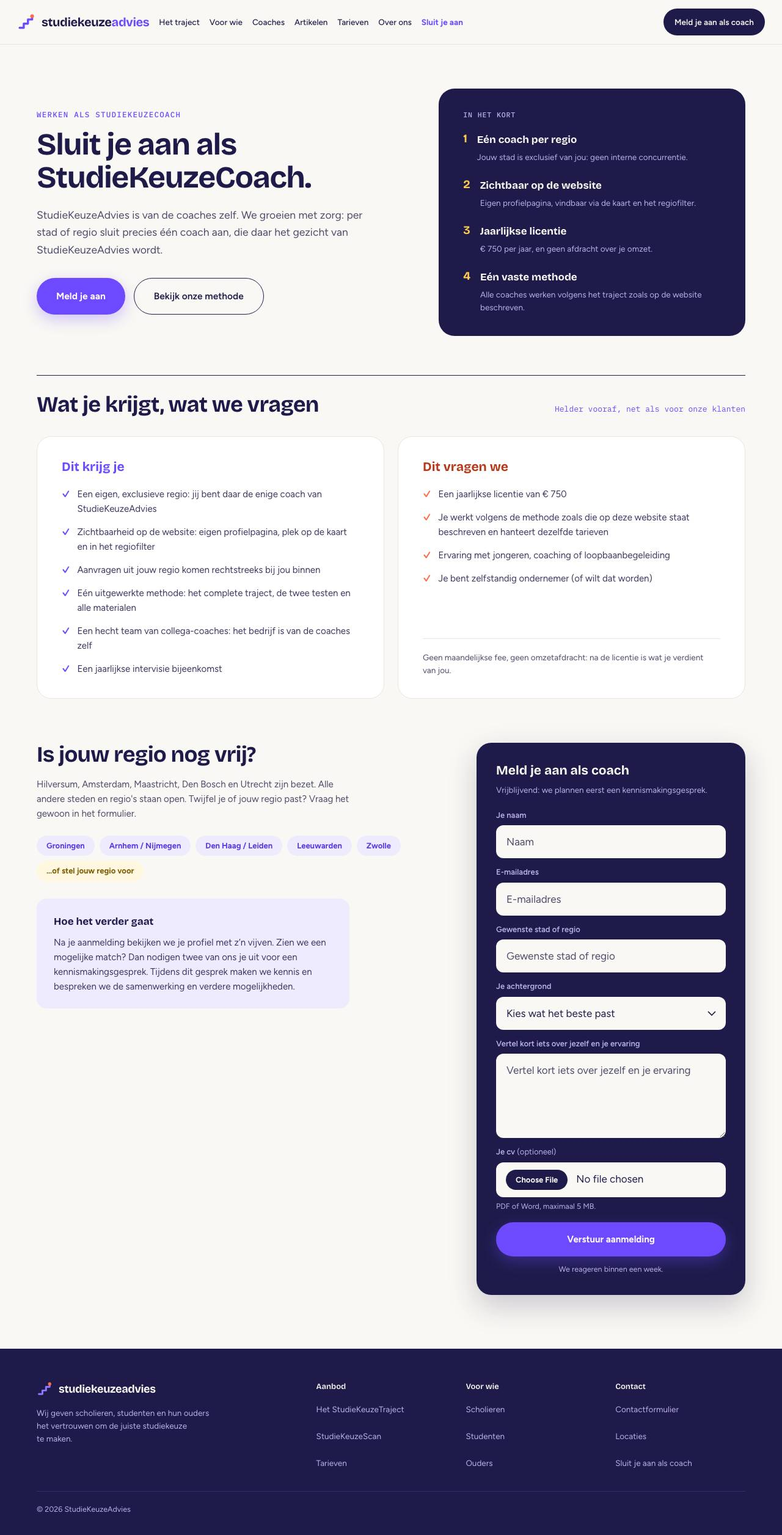
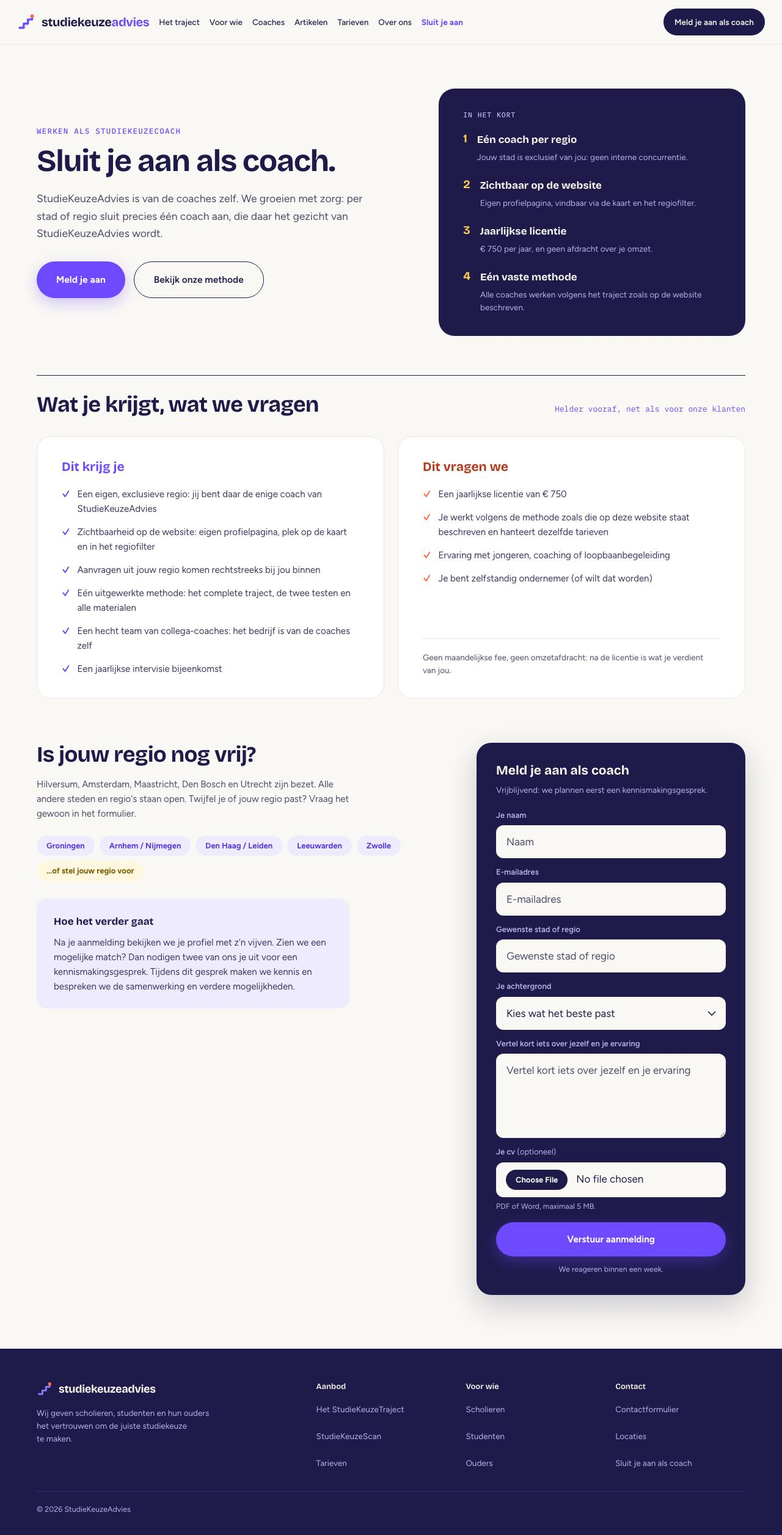
Do what two reviews of the client's mail found
Two reviewers read this branch: one held every row of the register against
the client's mail word for word, one read the code. Between them they found
nine things that were wrong and three that are worth an issue.

The client's own words, put back:

- The kop is "Sluit je aan als coach", not "als StudieKeuzeCoach". Row A1
  capitalises the brand; it does not put the brand where the client wrote the
  plain word. The eyebrow and the title tag keep the brand, for search.
- "Samen met de studiekeuzeadviseur" is the client's noun and the spelling
  sweep should never have touched it. It is not one of the three brand
  strings row A1 names.
- The contact page says "of mail naar info@studiekeuzeadvies.nl" inside the
  sentence the client wrote it in.
- The icon's `aria-label` and `<title>` said "StudiekeuzeAdvies". They are
  text, so the sweep should have caught them; "the wordmark is a drawing"
  covers the drawing and not its label.

Three old Sittard URLs parked at /locaties, waiting for a /locaties/sittard
that app/cities.ts will never hold: the town is Sittard-Geleen now. One row
in CITY_SPECIAL fixes all three, and they answer 308 to the real page.

The CV, on the paths nobody walks on a good day:

- a provider error empties the file input exactly as an invalid submission
  does, and only the invalid one said so. Now every state that comes back to
  the form says to pick the file again.
- a name longer than 120 characters lost its extension to the cut, and a
[…]

Changed region(s): [[0.0312, 0.0621, 0.4688, 0.2173]]

diff --git a/app/redirects.ts b/app/redirects.ts
@@ -157,8 +157,8 @@ export const legacyRedirects: LegacyRedirect[] = [
   { source: "/locaties/roosendaal/angelina-muller-1", destination: "/locaties", temporary: true }, // waits for /locaties/roosendaal
   { source: "/locaties/rotterdam", destination: "/locaties", temporary: true }, // waits for /locaties/rotterdam
   { source: "/locaties/singel-331-3311-hl-dordrecht", destination: "/locaties" },
-  { source: "/locaties/sittard", destination: "/locaties", temporary: true }, // waits for /locaties/sittard
-  { source: "/locaties/sittard/lisa-2", destination: "/locaties", temporary: true }, // waits for /locaties/sittard
+  { source: "/locaties/sittard", destination: "/locaties/sittard-geleen" },
+  { source: "/locaties/sittard/lisa-2", destination: "/locaties/sittard-geleen" },
   { source: "/locaties/student-getting-help-from-tutor-in-library", destination: "/locaties" },
   { source: "/locaties/studiekeuzeadvies-apeldoorn", destination: "/locaties", temporary: true }, // waits for /locaties/apeldoorn
   { source: "/locaties/utrecht/b-m", destination: "/locaties/utrecht" },
@@ -223,7 +223,7 @@ export const legacyRedirects: LegacyRedirect[] = [
   { source: "/product/studiekeuzeadvies-traject-mbo-zonder-gesprekken-opnieuw-kiezer", destination: "/tarieven" },
   { source: "/product/studiekeuzeadvies-traject-mbo-zonder-gesprekken", destination: "/tarieven" },
   { source: "/roosendaal", destination: "/locaties", temporary: true }, // waits for /locaties/roosendaal
-  { source: "/sittard", destination: "/locaties", temporary: true }, // waits for /locaties/sittard
+  { source: "/sittard", destination: "/locaties/sittard-geleen" },
   { source: "/spoedcursus-studeren-1-wat-je-moet-weten-voor-je-gaat-studeren", destination: "/artikelen", temporary: true }, // waits for /spoedcursus-studeren-1-wat-je-moet-weten-voor-je-gaat-studeren
   { source: "/spoedcursus-studeren-2-voorbereiden-op-je-studie", destination: "/artikelen", temporary: true }, // waits for /spoedcursus-studeren-2-voorbereiden-op-je-studie
   { source: "/spoedcursus-studeren-3-hoe-zit-een-studie-in-elkaar", destination: "/artikelen", temporary: true }, // waits for /spoedcursus-studeren-3-hoe-zit-een-studie-in-elkaar

diff --git a/app/traject.ts b/app/traject.ts
@@ -47,8 +47,8 @@ export type Meeting = {
  * `homeworkTitle` is new. Three meetings say "Daarna, thuis" and the third one
  * says "Daarna, thuis en erop uit", because that is the week the reader
  * actually leaves the house. The fourth says "Daarna, inschrijven!" and it is
- * the one card that has a line after it at all, so `homework` is no longer
- * null on the last meeting.
+ * the one card whose heading is the whole message: `homework` stays null there
+ * and the heading carries it alone.
  */
 export const meetings: Meeting[] = [
   {
@@ -102,7 +102,7 @@ export const tests = {
   heading: "Betrouwbare tests, gericht op betere keuzes",
   body: [
     "Een studie kiezen betekent je verdiepen in een wereld die vaak nog grotendeels onbekend is. Er zijn veel opleidingen, richtingen en mogelijkheden. Onze tests helpen om daarin structuur aan te brengen. Ze zijn ontwikkeld vanuit meer dan 30 jaar ervaring met assessments, studiekeuze, coaching en testontwikkeling en zijn gericht op het verkrijgen van betrouwbare inzichten in persoonlijkheid en interesses.",
-    "Zo wordt duidelijker waar je voorkeuren liggen, wat bij je past en welke richtingen het meest interessant zijn om verder te onderzoeken. De testuitslagen vormen daarbij het vertrekpunt. Samen met de StudieKeuzeCoach geef je betekenis aan de resultaten, leg je verbanden en vertaal je de inzichten naar concrete opleidingen en keuzes. Zo ontstaat stap voor stap overzicht in een zoektocht die aan het begin vaak nog heel breed en onbekend is.",
+    "Zo wordt duidelijker waar je voorkeuren liggen, wat bij je past en welke richtingen het meest interessant zijn om verder te onderzoeken. De testuitslagen vormen daarbij het vertrekpunt. Samen met de studiekeuzeadviseur geef je betekenis aan de resultaten, leg je verbanden en vertaal je de inzichten naar concrete opleidingen en keuzes. Zo ontstaat stap voor stap overzicht in een zoektocht die aan het begin vaak nog heel breed en onbekend is.",
   ],
   pills: [
     "Persoonlijkheidstest",

diff --git a/app/coach-worden/application-form.tsx b/app/coach-worden/application-form.tsx
@@ -81,13 +81,13 @@ export function CoachApplicationForm({ className = "" }: { className?: string })
   const undeliverable =
     state.status === "not-configured" || state.status === "provider-error";
 
+  // No encType here although this form carries a file. React sets it itself for
+  // a form whose action is a function, and it overrides and warns about one that
+  // is written down. See react-dom, "Cannot specify a encType or method ...".
   return (
     <form
       action={formAction}
       className={cardBase}
-      /* ROW W2. Without this a browser posts the name of the file and not the
-         file, and the CV would arrive as the word "cv.pdf". */
-      encType="multipart/form-data"
       noValidate
     >
       <h2 className="text-title font-display font-bold">Meld je aan als coach</h2>
@@ -304,9 +304,13 @@ export function CoachApplicationForm({ className = "" }: { className?: string })
           ) : (
             <p className="text-micro text-lavender-ink" id={`${id}-cv-hint`}>
               PDF of Word, maximaal {cvMaxLabel}.
-              {state.status === "invalid"
-                ? " Kies je bestand opnieuw: een browser mag het niet voor je onthouden."
-                : ""}
+              {/* Every state that lands here again empties the file input, not
+                  just an invalid one: a provider error returns the typed
+                  answers and no file either. "sent" never reaches this, it
+                  returns above. */}
+              {state.status === "idle"
+                ? ""
+                : " Kies je bestand opnieuw: een browser mag het niet voor je onthouden."}
             </p>
           )}
         </div>

diff --git a/app/actions.ts b/app/actions.ts
@@ -332,6 +332,25 @@ export async function requestIntake(
 }
 
 /**
+ * A file name a mail client can be handed.
+ *
+ * Three things happen to it. A line break or a slash goes, because either can
+ * make a mail header say something the sender did not write. The stem is cut to
+ * length, never the suffix: a .pdf that arrives called `cv` opens in nothing.
+ * And the cut counts characters the way a person reads them, so it cannot land
+ * in the middle of an emoji and leave half of one behind.
+ */
+function safeFilename(name: string): string {
+  const clean = oneLine(name).replace(/[/\\]/g, "-");
+  const dot = clean.lastIndexOf(".");
+  const stem = dot > 0 ? clean.slice(0, dot) : clean;
+  const suffix = dot > 0 ? clean.slice(dot) : "";
+  const room = Math.max(1, 120 - suffix.length);
+  const cut = [...stem].slice(0, room).join("");
+  return `${cut}${suffix}`;
+}
+
+/**
  * Read the CV off the application form.
  *
  * It answers with exactly one of two things: an attachment, or a sentence for
@@ -370,8 +389,10 @@ async function readCv(
       content: Buffer.from(await file.arrayBuffer()).toString("base64"),
       contentType: file.type || undefined,
       // The reader's own file name, minus anything that could confuse a mail
-      // client about what kind of file it is looking at.
-      filename: oneLine(file.name).replace(/[/\\]/g, "-").slice(0, 120),
+      // client about what kind of file it is looking at. The length cap takes
+      // it out of the stem and never out of the suffix: a .pdf that arrives
+      // called `cv` opens in nothing.
+      filename: safeFilename(file.name),
     },
   };
 }

diff --git a/app/components/intake-form.tsx b/app/components/intake-form.tsx
@@ -15,8 +15,11 @@ import {
  * with paper fields, one violet pill to submit, and a confirmation that
  * replaces the whole card.
  *
- * The form always knows where it sends to, because there is no central mailbox
- * to fall back on (issue #7).
+ * The form always knows where it sends to. It used to have to: issue #7 said
+ * there was no central mailbox to fall back on. The client's mail of 21 August
+ * brought one back, so `unassignedIntakeInbox` now answers for a city with no
+ * coach yet. A request that names nobody at all is still archived and not
+ * delivered, which is issue #17.
  *
  * `route` is the encoded destination of app/intake.ts and it travels in a
  * hidden field. `coachName` is the same destination in words, for the reader.
@@ -36,7 +39,7 @@ import {
  *  - "Waar loop je tegenaan?" is gone. It was the one open question on the
  *    card and the client asked for it to go. A reader now says what is going
  *    on in the intake conversation itself, which is what that conversation is
- *    for, and the form is four short rows instead of a small essay;
+ *    for, and the card asks short questions instead of a small essay;
  *  - "Hoe kunnen we je bereiken?" is new, and WhatsApp is one of the three
  *    answers. The telephone field came back with it, because two of the three
  *    channels cannot work without a number. It is optional for the third, and

diff --git a/app/coach-worden/page.tsx b/app/coach-worden/page.tsx
@@ -25,9 +25,10 @@ import { CoachApplicationForm } from "./application-form";
  * not move with the name: four old vacancy URLs redirect into it and it is in
  * the sitemap, and a rename that breaks those buys nothing.
  *
- * THE LICENCE IS DECIDED NOW, row W5: €750 a year. It used to be an indication
- * of a one-off amount and said so in the same breath. app/pricing.ts holds the
- * figure and the term, so this page never types either.
+ * THE LICENCE IS DECIDED NOW, row W5: a yearly amount. It used to be an
+ * indication of a one-off one and said so in the same breath. app/pricing.ts
+ * holds the figure and the term, so this page never types either, and neither
+ * does this comment.
  *
  * WHICH REGIONS ARE TAKEN IS READ FROM THE ROSTER, never typed. The client's
  * export names six cities by hand; the roster in app/coaches.ts now holds five
@@ -143,7 +144,7 @@ export default function CoachWordenPage() {
                     step of text-h1, so the title drops one step there
                     (decision 2026-08-05). */}
                 <h1 className="text-h1 max-w-[16ch] font-bold max-[380px]:text-h2-lg">
-                  Sluit je aan als StudieKeuzeCoach.
+                  Sluit je aan als coach.
                 </h1>
 
                 <p className="text-lead mt-5 max-w-[34rem] text-muted">

diff --git a/app/contact/page.tsx b/app/contact/page.tsx
@@ -28,7 +28,7 @@ export const metadata: Metadata = {
 };
 
 const paragraphs = [
-  "Heb je een vraag? Wil je meer weten over onze StudieKeuzeTrajecten, heb je een opmerking of wil je iets met ons delen? Stuur ons gerust een bericht via het contactformulier hieronder. Een van onze coaches neemt binnen twee werkdagen contact met je op.",
+  "Heb je een vraag? Wil je meer weten over onze StudieKeuzeTrajecten, heb je een opmerking of wil je iets met ons delen? Stuur ons gerust een bericht via het contactformulier hieronder of mail naar info@studiekeuzeadvies.nl. Een van onze coaches neemt binnen twee werkdagen contact met je op.",
   "Heb je een klacht? Ook dan horen we graag van je. We nemen je bericht serieus en zoeken samen naar een passende oplossing.",
   "Twijfel je of je vraag wel bij ons past? Gewoon insturen. We denken graag met je mee.",
 ];

diff --git a/app/studiekeuzetraject/gesprekken-panel.tsx b/app/studiekeuzetraject/gesprekken-panel.tsx
@@ -8,8 +8,9 @@ import { meetings } from "@/app/traject";
  * Each card is three columns on a wide screen: the numeral, what you do in the
  * meeting, and what you do at home before the next one. The rhythm answers the
  * question the reader really has, which is how much work this is. The last
- * card has no homework, so its third column stands empty, exactly as the
- * client drew it.
+ * card has no homework. Its third column is not empty, though: row T5 of the
+ * client's mail gave it "Daarna, inschrijven!" and a party mark, and that
+ * heading stands there on its own.
  *
  * Responsive (ours, the client's export keeps three columns at 390px): one
  * column on a telephone with the numeral above the title, two from `sm` with

diff --git a/app/studiekeuzecoaches/[coach]/profiles.ts b/app/studiekeuzecoaches/[coach]/profiles.ts
@@ -57,7 +57,8 @@ export type Profile = {
 };
 
 /**
- * Janneke, the only real coach (`isPlaceholder: false`).
+ * Janneke. She was the only real coach until the client's mail of 21 August
+ * named the other four; all five are real now.
  *
  * This is the client's copy, word for word, with two changes the house rules
  * ask for: the em dash in the lede is a comma, and nothing was added. She

diff --git a/app/studiekeuzecoaches/[coach]/page.tsx b/app/studiekeuzecoaches/[coach]/page.tsx
@@ -30,7 +30,7 @@ import { getProfile, type ProfileBlock } from "./profiles";
  * elsewhere.
  */
 
-/** The six people of the roster, and nobody else. An unknown slug is a 404. */
+/** The five people of the roster, and nobody else. An unknown slug is a 404. */
 export function generateStaticParams() {
   return coaches.map((coach) => ({ coach: coach.slug }));
 }

diff --git a/scripts/build-url-map.py b/scripts/build-url-map.py
@@ -89,6 +89,10 @@ CITY_SPECIAL = {
     "/deventer-2/": "deventer",
     "/locaties/arnhem-2/": "arnhem",
     "/locaties/studiekeuzeadvies-apeldoorn/": "apeldoorn",
+    # The town kept its name on the old site and lost it in the merger with
+    # Geleen. Without this row all three Sittard URLs park at /locaties and
+    # wait for a /locaties/sittard that app/cities.ts will never hold.
+    "/locaties/sittard/": "sittard-geleen",
 }
 
 # Every page that is not a city page, mapped by hand.

diff --git a/docs/redesign/client-feedback.md b/docs/redesign/client-feedback.md
@@ -42,7 +42,7 @@ reason follows it. Every open row is also a GitHub issue.
 
 | ID | Asked | Done |
 |---|---|---|
-| A1 | Every "Studiekeuze…" gets the inner capitals: *StudieKeuzeAdvies*, *StudieKeuzeCoach*, *StudieKeuzeTraject*. | Done, 48 lines in 18 files. `app/site-config.ts` carries the brand string; the sweep covers prose, headings, metadata titles and descriptions. **Four things keep their small letters, and each is an address rather than a sentence**: a URL (`/studiekeuzecoaches`), an anchor (`#studiekeuzescan`), an e-mail address (`info@studiekeuzeadvies.nl`) and the domain itself. A capital in any of those is a different address. The drawn wordmark in the header and the footer also stays as the client drew it: it is a logo, not a word in a sentence. |
+| A1 | Every "Studiekeuze…" gets the inner capitals: *StudieKeuzeAdvies*, *StudieKeuzeCoach*, *StudieKeuzeTraject*. | Done, 48 lines in 18 files. `app/site-config.ts` carries the brand string; the sweep covers prose, headings, metadata titles and descriptions. **Four things keep their small letters, and each is an address rather than a sentence**: a URL (`/studiekeuzecoaches`), an anchor (`#studiekeuzescan`), an e-mail address (`info@studiekeuzeadvies.nl`) and the domain itself. A capital in any of those is a different address. The drawn wordmark in the header and the footer also stays as the client drew it: it is a logo, not a word in a sentence. Its `aria-label` and `<title>` are not, though, and a review caught them in small letters; they are swept now. |
 | A2 | *KeuzeScan* is always *StudieKeuzeScan*. | Done. Swept over the traject page, the tarieven page, the home page, the footer and the pricing data. |
 | A3 | Pictures: colour only, photographs only, and inclusive. Offer to shoot real young people. | Partly done. The five generated coach portraits are gone, replaced by the coaches' own photographs. The remaining generated pictures are listed in the open question Q2. |
 | A4 | A few pages are still missing. Shall Lau design them? | Open, question Q7. The two the mail names itself (Contact, Samenwerken) are built here. |
@@ -60,12 +60,12 @@ reason follows it. Every open row is also a GitHub issue.
 | H7 | The scan line gets new wording and must point at the StudieKeuzeScan block on the traject page, not at the tarieven page. | Done. It links to `/studiekeuzetraject#studiekeuzescan`. |
 | H8 | "Jouw keuze, jouw tempo. Met één vaste coach." over two lines. | Done. |
 | H9 | "Ook als je gestopt bent of vastloopt" becomes "… gestopt bent met of vastloopt in je huidige studie". | Done. |
-| H10 | The parents' test line ends with ", afgerond in een rapportage". | Done. |
+| H10 | The test line ends with ", afgerond in een rapportage". | Done. The client files this under "Kader voor jou", and the sentence they quote has always stood in the box beside it, "Voor ouders" (`forParents` in `app/page.tsx`). It is edited where it stands rather than moved: the client asked for the ending, not for the line to change boxes. Say the word and it moves. |
 | H11 | Moya's caption becomes "koos na haar herstart voor de opleiding Toegepaste Psychologie". | Done. |
 | H12 | The "één vaste coach" paragraph is rewritten and names deaf and hard-of-hearing readers, and Tamara's sign language. | Done. |
 | H13 | Drop the small "Sterk in …" box under a coach. Put the work area there instead, for the SEO. | Done. The chip under a coach now lists that coach's own towns, and the city list beside it is alphabetical. |
 | H14 | New closing one-liner and new line under it. | Done, and "35+ locaties" became "onze vaste locaties". |
-| H15 | Footer: "Keuzecheck herstarters" becomes "StudieKeuzeScan" and points at the traject page. Drop "Extra ondersteuning". "Contactformulier" points at a new Contact page. | Done, `app/components/site-footer.tsx` and the new `app/contact`. |
+| H15 | Footer: "Keuzecheck herstarters" becomes "StudieKeuzeScan" and points at the traject page. Drop "Extra ondersteuning". "Contactformulier" points at a new Contact page. | Done, `app/components/site-footer.tsx` and the new `app/contact`. The page carries the client's paragraph word for word, including "of mail naar info@studiekeuzeadvies.nl", which a review found missing from the sentence it belongs in. |
 | H16 | Add "Scholen" beside "Decanen"; both point at a new page "Samenwerken". Keep the page switched off at launch. | Done. `app/samenwerken` exists and is complete; `showSamenwerken` in `app/site-config.ts` is `false`, so the page answers 404 and the two links stay out of the footer. One flag turns it on. |
 
 ## T. Het traject
@@ -77,9 +77,9 @@ reason follows it. Every open row is also a GitHub issue.
 | T3 | Add "✓ Incl. rapportage" beside the two tests. | Done. |
 | T4 | The four steps get the long new texts. | Done. |
 | T5 | The orange "Daarna, thuis" column is rewritten; step 3 is headed "Daarna, thuis en erop uit"; step 4 reads "Daarna, inschrijven!" with a festive mark. | Done. The mark is 🎉, and it carries `aria-hidden`. |
-| T6 | The tests panel loses the TalentDrives badge for "Betrouwbare tests, gericht op betere keuzes", gets the long new text, and names "matrix + rapportage". | Done. |
+| T6 | The tests panel loses the TalentDrives badge for "Betrouwbare tests, gericht op betere keuzes", gets the long new text, and names "matrix + rapportage". | Done. The mail says the mention "moet er nog bij", so it joins the three pills instead of replacing one. Two notes from a review: the client writes "Samen met de studiekeuzeadviseur" and a first pass had swept that common noun into "StudieKeuzeCoach" — the client's word is back. The pill reads "Matrix + rapportage" and not the client's lower-case "matrix + rapportage", because every pill beside it starts with a capital. |
 | T7 | The scan block: rename to StudieKeuzeScan, button "Boek hier je StudieKeuzeScan" to a form that reaches info@, three new steps, and drop the closing sentence. | Done. The form is `/studiekeuzescan`. |
-| T8 | New closing one-liner and text. "Kies je stad" points at the coaches page. Drop "Bekijk alle coaches". | Done, in `app/components/closing-band.tsx`. The client wrote the same four lines twice, once here and once under VOOR WIE, so they are one component: two copies of a text the client will edit again is two chances to edit only one of them. |
+| T8 | New closing one-liner and text. "Kies je stad" points at the coaches page. Drop "Bekijk alle coaches". | Done, in `app/components/closing-band.tsx`. **Two deviations, both flagged by a review, both easy to undo.** The client asks only that the link point elsewhere, and the button is also renamed "Kies je coach": a button that says "Kies je stad" and opens a list of people asks the reader to trust the label or the page, not both. And the client's sentence reads "en beslis of het traject bij je past", which is missing its subject; it reads "en beslis je of" here. The client wrote the same four lines twice, once here and once under VOOR WIE, so they are one component: two copies of a text the client will edit again is two chances to edit only one of them. |
 
 ## V. Voor wie
 
@@ -145,11 +145,11 @@ reason follows it. Every open row is also a GitHub issue.
 
 | ID | Asked | Done |
 |---|---|---|
-| W1 | "Word coach" becomes "Sluit je aan als coach". | Done on the page (h1, eyebrow, title tag) and in the footer, in full. In the top navigation it is shortened to "Sluit je aan": the client's sentence is 22 characters in a bar that already carries six links and a button. The verb is theirs. The address `/coach-worden` does not move, so the four old vacancy redirects and the ranking stay. |
+| W1 | "Word coach" becomes "Sluit je aan als coach". | Done. The h1 and the footer carry the client's sentence exactly: "Sluit je aan als coach." It first read "als StudieKeuzeCoach", which a review called out and which was wrong: row A1 capitalises the brand, it does not put the brand where the client wrote the plain word. The eyebrow ("Werken als StudieKeuzeCoach") and the title tag still name the brand, because a search engine reads those and neither is the kop the client named. In the top navigation it is shortened to "Sluit je aan": the client's sentence is 22 characters in a bar that already carries six links and a button. The verb is theirs. The address `/coach-worden` does not move, so the four old vacancy redirects and the ranking stay. |
 | W2 | The form must carry a CV. | Done. One file, PDF or Word, at most 5 MB, delivered as a real attachment on the application mail. It is **optional**: the client asked that a CV *can* be sent, and somebody reading this page on a telephone has their CV on a laptop. Three things had to move together: `Mail` in `app/lib/mail.ts` now carries attachments, `serverActions.bodySizeLimit` in `next.config.ts` is 6mb (a server action refuses a body over 1MB by default, and multipart adds its own bytes), and nothing is written to disk: the file is read once, encoded, sent and forgotten. |
 | W3 | "Wat krijg je" gains a yearly intervisie meeting. | Done. |
 | W4 | "Wat verwachten we" gains "en hanteert dezelfde tarieven". | Done. |
-| W5 | The licence is "een jaarlijkse licentie van €750". | Done in `app/pricing.ts`, which is the only place the figure is written. It was "± € 750, eenmalig, een indicatie". The amount did not move; the term did, and the hedge is gone, because the client has now decided it. |
+| W5 | The licence is "een jaarlijkse licentie van €750". | Done in `app/pricing.ts`, which is the only place the figure is written. A review found the page's own header comment typing it as well, which made that sentence false; the comment no longer names an amount. It was "± € 750, eenmalig, een indicatie". The amount did not move; the term did, and the hedge is gone, because the client has now decided it. |
 | W6 | New text for "Hoe het verder gaat". | Done. |
 
 ---
@@ -175,6 +175,40 @@ added there as a comment rather than filed twice.
 | Q10 | #76 | Tamara's photograph. The one in the Drive folder is 192×192 pixels, which is too small for the 640px slot on her own page and shows it. Her card and her page are built to stand without a portrait, so nothing is broken, but she is the only coach without a face. A photograph at 1000px or more fixes it. |
 
 ---
+
+## Where the page does not say exactly what the mail says
+
+A review of this change read every request against the mail and found the
+places where the built copy and the written copy differ. None of them is a
+disagreement; they are slips in the mail, or a house rule that the mail did not
+speak to. **All of them are the client's to overrule.** Each is one edit.
+
+Slips in the mail, corrected in silence until this list:
+
+| Mail | Page | Why |
+|---|---|---|
+| "Ben je doof **op** slechthorend" (twice: H12 and V1) | "doof **of** slechthorend" | The sentence needs "of". |
+| "hoe jij je toekomst voor je **zit**" (T4) | "voor je **ziet**" | Same word, one letter. |
+| "De testresultaten **ontvang** in een rapportage" (T7) | "**ontvang je** in een rapportage" | The subject is missing. |
+| "door **jouw** samengestelde lijst" (H4) | "door **jou** samengestelde lijst" | |
+| "Kies hiernaast **stad** … en **vraagt** het" (C3) | "kies hiernaast **een** stad … en **vraag** het" | |
+| "MBO, HBO, **HBO**" (C5) | "MBO · HBO · **WO**" | The mail writes "mbo, hbo en wo" on the home page, so the third is a slip. |
+| "**30 Jaar** ervaring", "**Gebaarvaardig**", "stage oriëntatie" (C6) | "30 jaar", "Gebarenvaardig", "stage-oriëntatie" | |
+| "vak.Toen" (O3) | Two sentences, three paragraphs | |
+| "beslis of het traject bij je past" (T8) | "beslis **je** of" | |
+
+House rules the mail did not speak to, applied for consistency:
+
+- **"✓ incl rapportage" is written "✓ Incl. rapportage"** (T3), because every
+  tick beside it is capitalised and abbreviated the same way.
+- **"matrix + rapportage" is a pill reading "Matrix + rapportage"** (T6), for
+  the same reason.
+- **The orange column writes the two tests in small letters** (T5) where the
+  mail capitalises them mid-sentence.
+- **The new contact form says "Je naam" and "Bericht (mag je leeg laten)"**
+  where the mail sketches "Naam" and "Bericht (optioneel)" (H16). Every other
+  form on the site asks in those words. This is the one on the list that is a
+  real choice rather than a spelling, so it is the one most worth a word back.
 
 ## What was deliberately not changed
 
